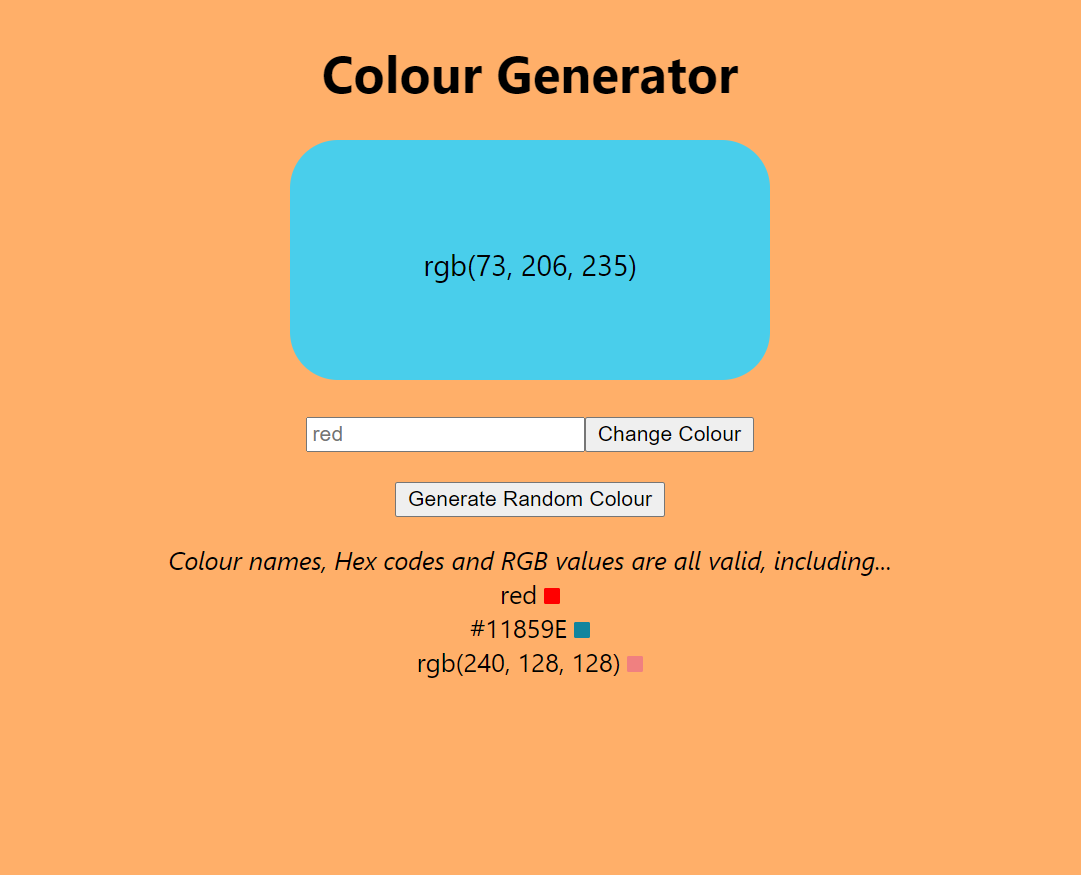
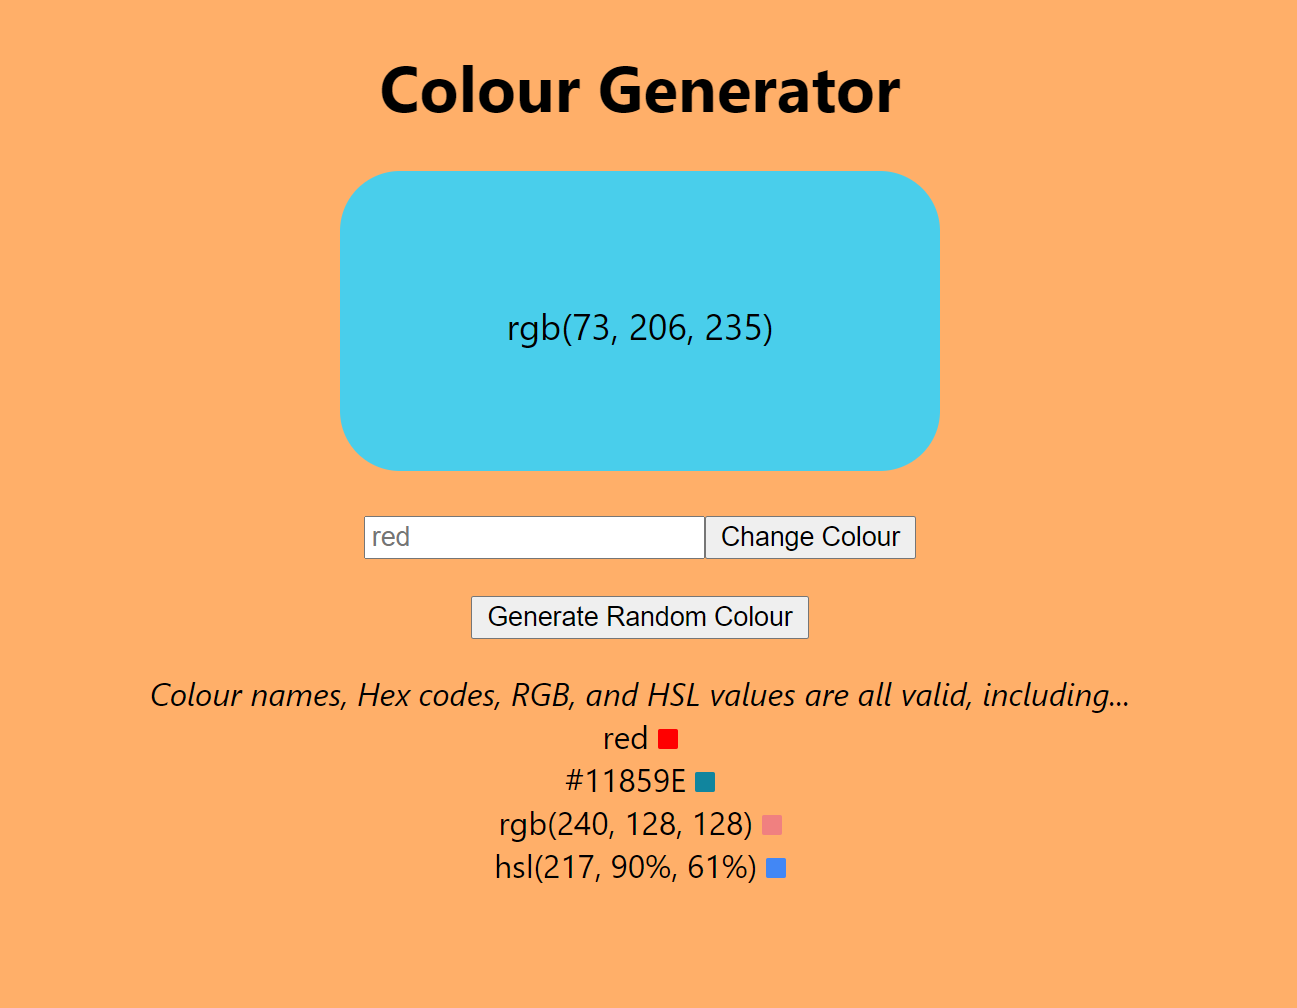
Added HSL in description

diff --git a/src/main.rs b/src/main.rs
@@ -79,10 +79,11 @@ impl Component for Page {
                 </div><br/>
                 <button onclick={ctx.link().callback(|_| Msg::GenerateRandomColour)}>{"Generate Random Colour"}</button>
                 <p class={"text"}>
-                    <em>{"Colour names, Hex codes and RGB values are all valid, including..."}</em><br/>
+                    <em>{"Colour names, Hex codes, RGB, and HSL values are all valid, including..."}</em><br/>
                     {"red "}<svg width={"10"} height={"10"}><rect width={"100%"} height={"100%"} rx={"1"} fill={"red".to_string()}/></svg><br/>
                     {"#11859E "}<svg width={"10"} height={"10"}><rect width={"100%"} height={"100%"} rx={"1"} fill={"#11859E".to_string()}/></svg><br/>
                     {"rgb(240, 128, 128) "}<svg width={"10"} height={"10"}><rect width={"100%"} height={"100%"} rx={"1"} fill={"rgb(240, 128, 128)".to_string()}/></svg><br/>
+                    {"hsl(217, 90%, 61%) "}<svg width={"10"} height={"10"}><rect width={"100%"} height={"100%"} rx={"1"} fill={"hsl(217, 90%, 61%)".to_string()}/></svg><br/>
                 </p>
             </div>
         )
